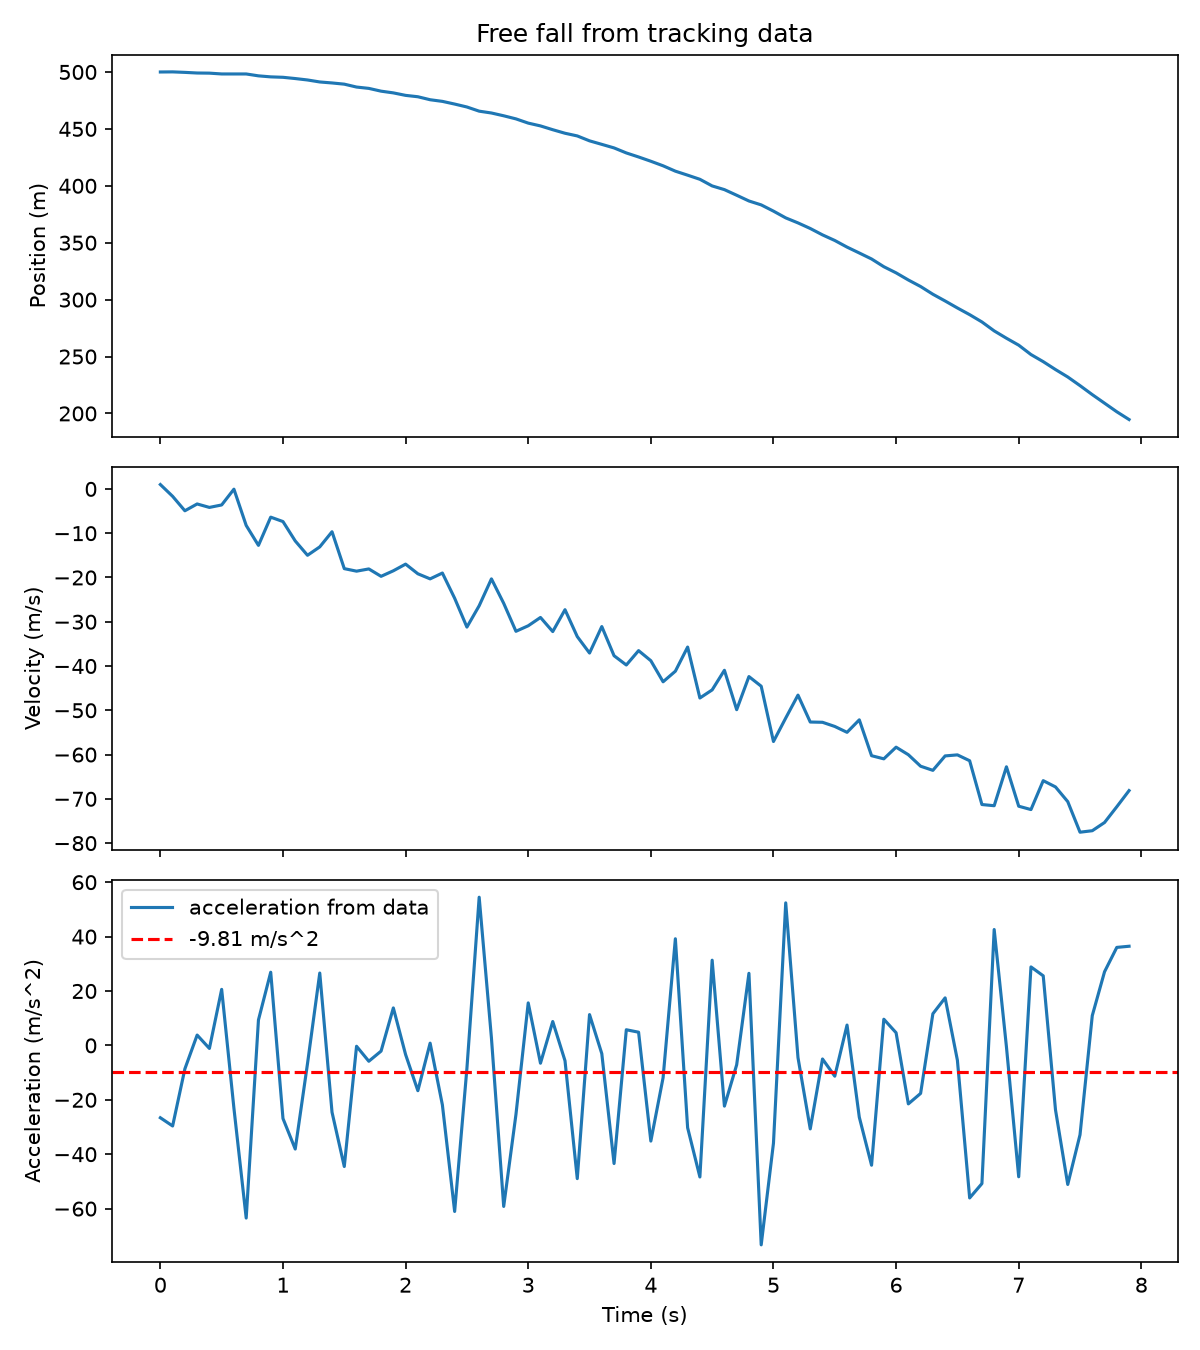
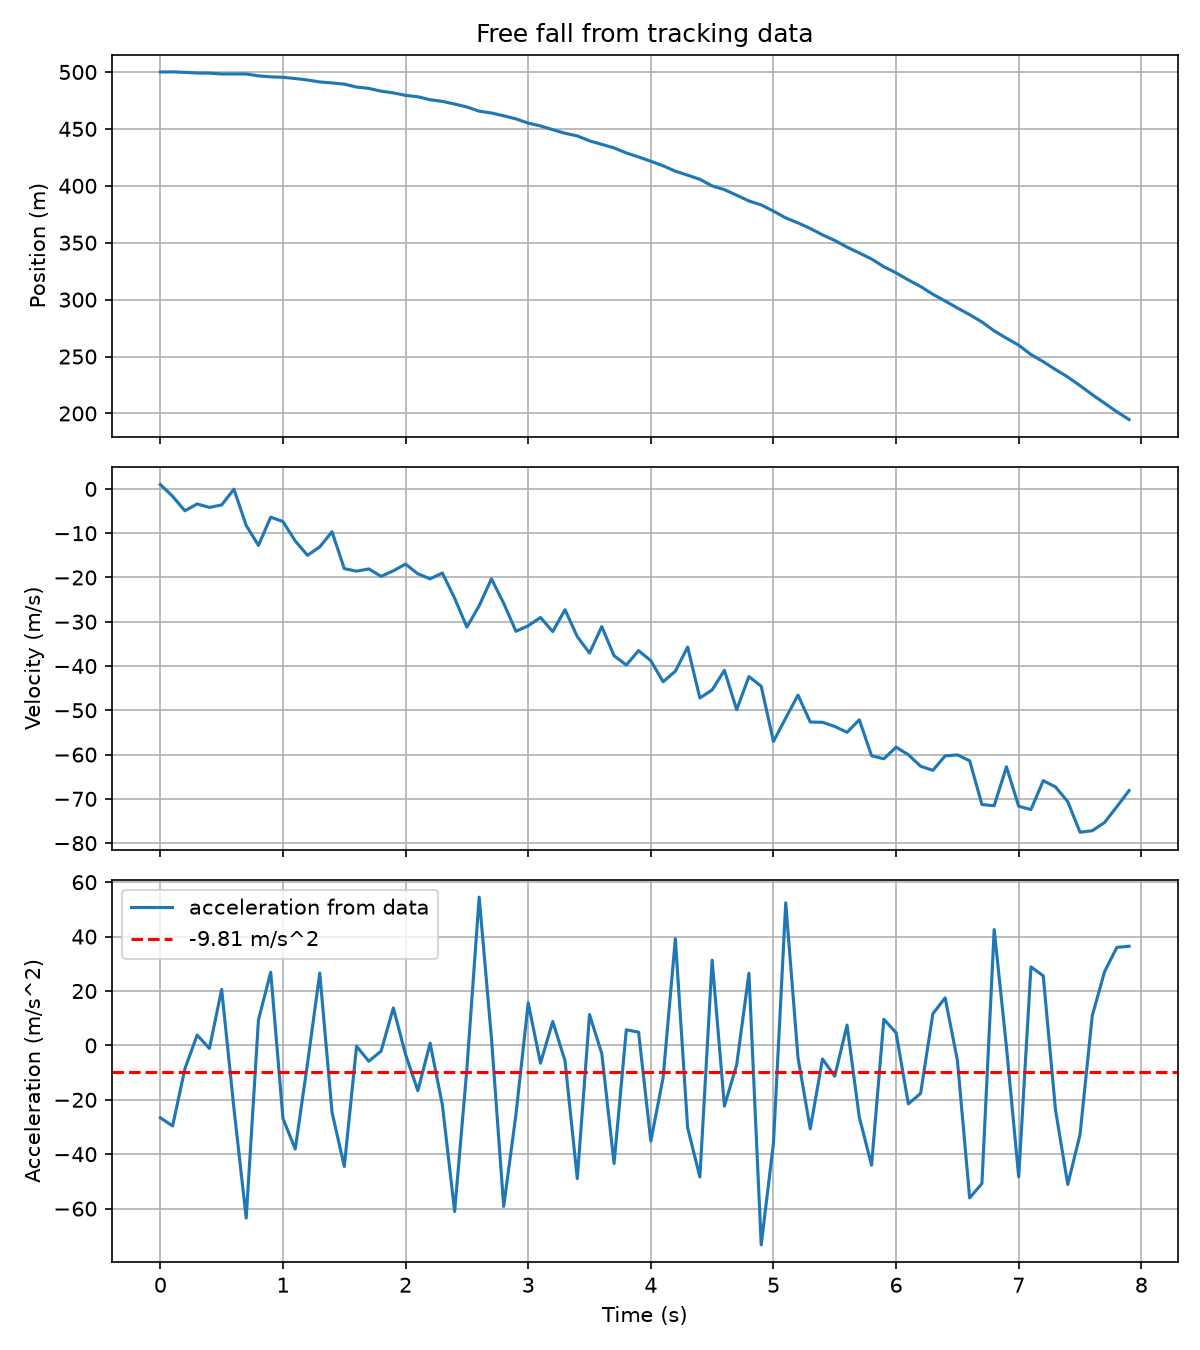
Add grid lines to the plots

diff --git a/PW2/Lab A/analysis.py b/PW2/Lab A/analysis.py
@@ -52,6 +52,9 @@ axes[2].axhline(-9.81, color="red", linestyle="--", label="-9.81 m/s^2")
 axes[2].set_ylabel("Acceleration (m/s^2)")
 axes[2].set_xlabel("Time (s)")
 axes[2].legend()
+axes[0].grid(True)
+axes[1].grid(True)
+axes[2].grid(True)
 
 plt.tight_layout()
 plt.savefig("motion.png", dpi=150)
@@ -77,6 +80,8 @@ ax2.plot(tt, speed)
 ax2.set_xlabel("Time (s)")
 ax2.set_ylabel("Speed")
 ax2.set_title("Speed over time")
+ax1.grid(True)
+ax2.grid(True)
 
 plt.tight_layout()
 plt.savefig("trajectory.png", dpi=150)

diff --git a/PW2/Lab B/titration.py b/PW2/Lab B/titration.py
@@ -50,6 +50,8 @@ ax2.set_xlabel("Volume of base (mL)")
 ax2.set_ylabel("Slope (pH per mL)")
 ax2.set_title("Slope of the titration curve")
 ax2.legend()
+ax1.grid(True)
+ax2.grid(True)
 
 plt.tight_layout()
 plt.savefig("titration.png", dpi=150)

diff --git a/PW2/Lab B/equilibrium.py b/PW2/Lab B/equilibrium.py
@@ -65,5 +65,6 @@ plt.xlabel("Extent of reaction x (mol)")
 plt.ylabel("Amount (mol)")
 plt.title("H2 + I2 <=> 2 HI: amounts vs extent")
 plt.legend()
+plt.grid(True)
 plt.tight_layout()
 plt.savefig("equilibrium.png", dpi=150)

diff --git a/PW2/Lab B/kinetics.py b/PW2/Lab B/kinetics.py
@@ -50,5 +50,6 @@ plt.xlabel("Time")
 plt.ylabel("Concentration")
 plt.title("First-order reaction: fit of the rate constant")
 plt.legend()
+plt.grid(True)
 plt.tight_layout()
 plt.savefig("kinetics.png", dpi=150)
